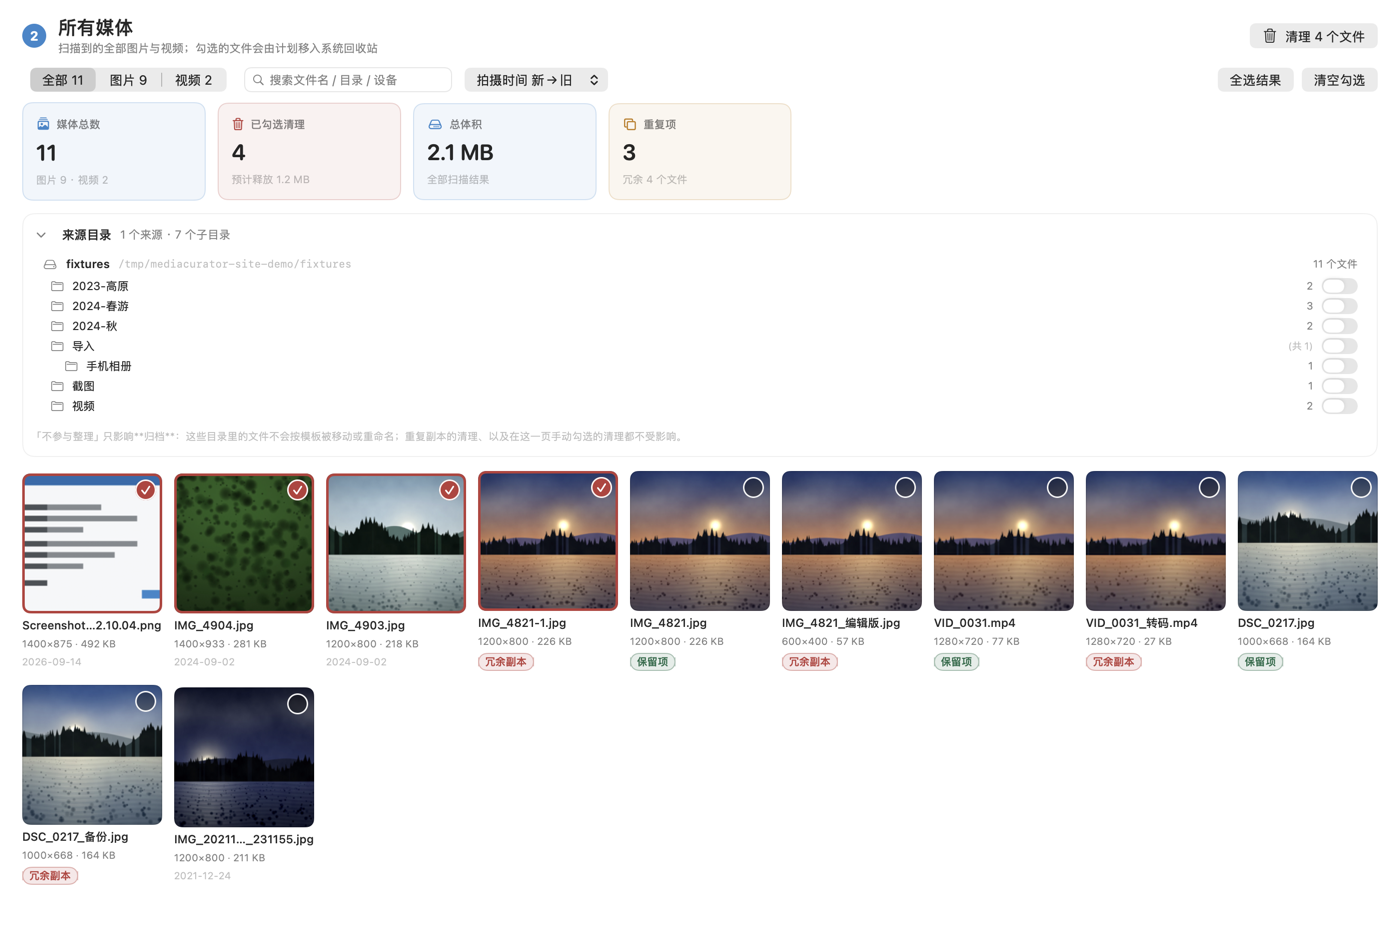
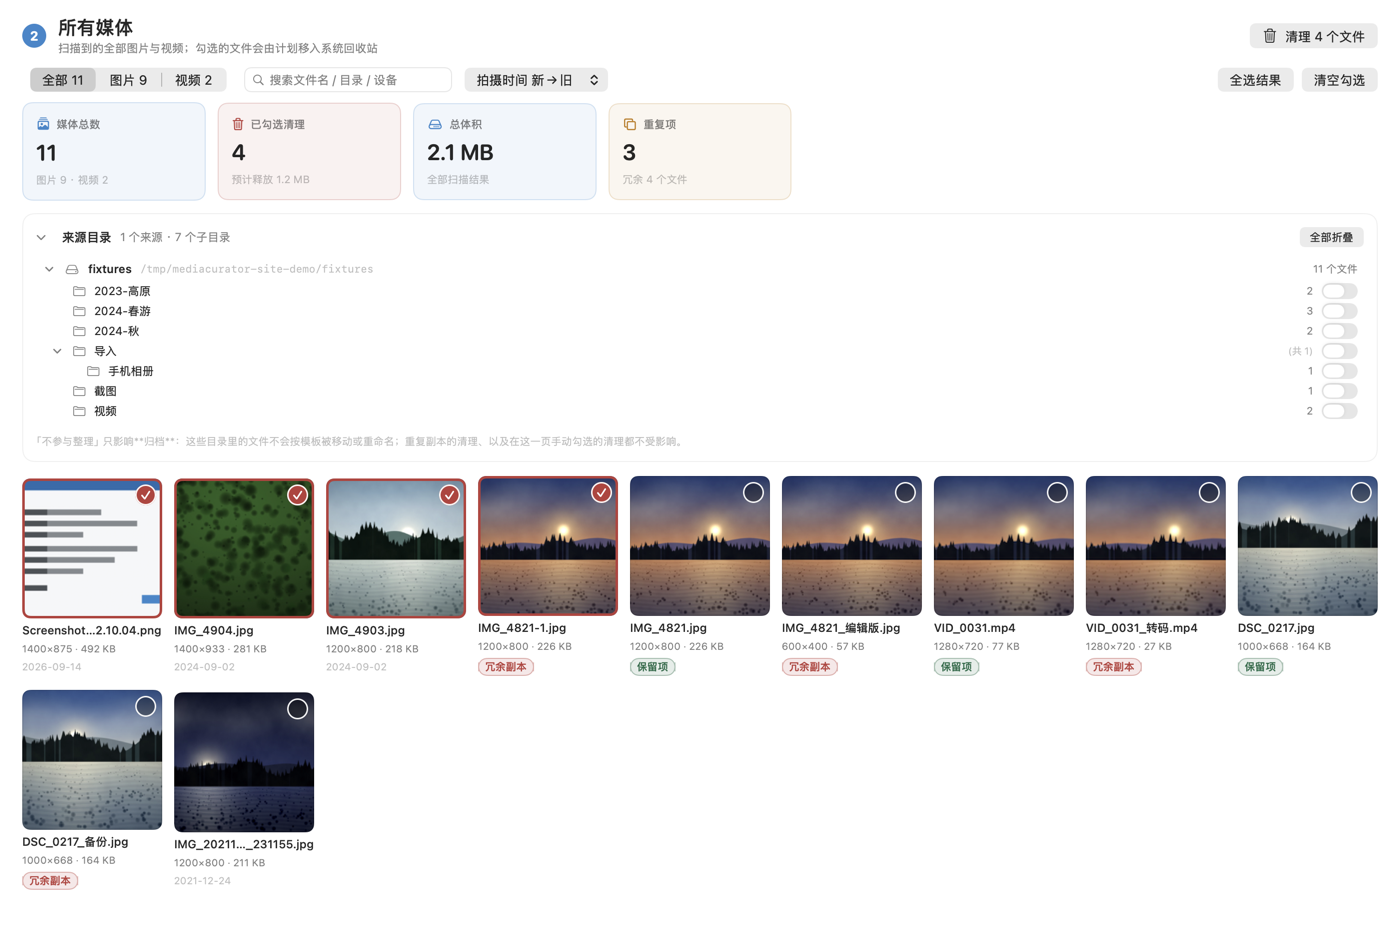
来源目录树支持折叠
- 每个目录行加折叠箭头，可逐个收起/展开；标题栏加「全部折叠 / 全部展开」。
- 叶子目录也画等宽透明占位，否则有下级和没下级的行会左右错开一格，
  看起来像缩进算错了 —— 而缩进在这棵树里正是「层级」的表达。
- 收起某个目录时行尾显示「已收起 N 个子目录」：光看名字不知道里面还有多少。
- 折叠可见性算在数据层 `SourceFolderGroup.visibleFolders(collapsed:)`，自检直接断言
  「收起后后代全部消失、展开原样回来、不影响兄弟目录、收起根只剩一行」——
  这类性质看截图验不出来（少几行和多几行在缩略图尺寸下很难分辨）。
- 顺手修掉一个既有缺陷：面板头部原先是一个大 Button 里嵌着「全部恢复」按钮，
  嵌套按钮的点击会串到外层（点「全部恢复」可能连带把整块折起来）。
  改成左侧标题区一个按钮、右侧动作各自独立。
- 色相桶数在 uicheck 里改为**只打印不断言**：自检素材是多频正弦图案，网格页与
  控件页都在 3–4 桶之间，比不出稳定差异 —— 加折叠箭头后 4 vs 3 直接翻转，
  拿噪声当判据比没有更糟。强判据留在出图环节（照片素材实测 10/12 桶）。

Changed region(s): [[0.0, 0.2422, 0.9829, 0.9686], [0.9214, 0.2422, 0.9829, 0.4541]]

diff --git a/Sources/MediaCurator/Views/AllMediaView.swift b/Sources/MediaCurator/Views/AllMediaView.swift
@@ -15,6 +15,11 @@ struct AllMediaView: View {
     /// 来源目录树默认展开：这是「这一页能看到哪些目录、哪些目录不参与整理」的唯一入口，
     /// 折叠着的话用户根本不知道有这回事。嫌占地方再收起来。
     @State private var showFolderTree = true
+    /// 被收起子目录的路径。
+    ///
+    /// 存路径而不是下标或 id：重新扫描后目录树会重建，只有路径在两次之间是稳定的。
+    /// 这也是临时浏览状态，不持久化 —— 下次打开全部展开，比记住一堆收起状态更符合预期。
+    @State private var collapsedFolders: Set<String> = []
 
     var body: some View {
         // 筛选结果、重复角色、目录树各算一次就够。它们都是 O(文件数) 甚至 O(n log n)
@@ -255,41 +260,69 @@ struct AllMediaView: View {
     private func sourceFolderPanel(_ groups: [SourceFolderGroup]) -> some View {
         let subfolderCount = groups.reduce(0) { $0 + max(0, $1.folders.count - 1) }
         let excludedCount = state.excludedFromOrganizing.count
+        // 折叠只对「有下级的目录」有意义；一个都没有时那两个按钮不该出现
+        let parentsWithChildren = groups.reduce(into: Set<String>()) {
+            $0.formUnion($1.foldersWithChildren)
+        }
+        let allCollapsed = !parentsWithChildren.isEmpty
+            && collapsedFolders.isSuperset(of: parentsWithChildren)
 
         if !groups.isEmpty {
             VStack(alignment: .leading, spacing: 0) {
-                Button {
-                    withAnimation(.easeInOut(duration: 0.14)) { showFolderTree.toggle() }
-                } label: {
-                    HStack(spacing: 8) {
-                        Image(systemName: showFolderTree ? "chevron.down" : "chevron.right")
-                            .font(.system(size: 10, weight: .semibold))
-                            .foregroundStyle(.secondary)
-                            .frame(width: 10)
-                        Image(systemName: "folder.on.circle")
-                            .font(.system(size: 12, weight: .semibold))
-                            .foregroundStyle(Palette.accent)
-                        Text("来源目录")
-                            .font(.system(size: 12.5, weight: .semibold))
-                        Text("\(groups.count) 个来源 · \(subfolderCount) 个子目录")
-                            .font(.system(size: 11.5))
-                            .foregroundStyle(.secondary)
-                        Spacer(minLength: 8)
-                        if excludedCount > 0 {
-                            TagChip(text: "已排除 \(excludedCount) 个不参与整理",
-                                    tint: Palette.caution, filled: false)
-                                .fixedSize()
-                            Button("全部恢复") {
-                                state.excludedFromOrganizing.removeAll()
-                                state.persistPreferences()
-                            }
-                            .controlSize(.small)
-                            .help("清除所有「不参与整理」的勾选，全部目录重新参与归档")
+                // 头部刻意**不是**一个大 Button 里嵌几个小按钮 —— 那样嵌套的按钮
+                // 点击会串到外层（点「全部恢复」可能连带把整块折起来）。
+                // 这里拆成：左侧标题区一个按钮，右侧动作各自独立。
+                HStack(spacing: 8) {
+                    Button {
+                        withAnimation(.easeInOut(duration: 0.14)) { showFolderTree.toggle() }
+                    } label: {
+                        HStack(spacing: 8) {
+                            Image(systemName: showFolderTree ? "chevron.down" : "chevron.right")
+                                .font(.system(size: 10, weight: .semibold))
+                                .foregroundStyle(.secondary)
+                                .frame(width: 10)
+                            Image(systemName: "folder.on.circle")
+                                .font(.system(size: 12, weight: .semibold))
+                                .foregroundStyle(Palette.accent)
+                            Text("来源目录")
+                                .font(.system(size: 12.5, weight: .semibold))
+                            Text("\(groups.count) 个来源 · \(subfolderCount) 个子目录")
+                                .font(.system(size: 11.5))
+                                .foregroundStyle(.secondary)
                         }
+                        .contentShape(Rectangle())
                     }
-                    .contentShape(Rectangle())
+                    .buttonStyle(.plain)
+                    .help(showFolderTree ? "收起目录树" : "展开目录树")
+
+                    Spacer(minLength: 8)
+
+                    if showFolderTree && !parentsWithChildren.isEmpty {
+                        Button(allCollapsed ? "全部展开" : "全部折叠") {
+                            withAnimation(.easeInOut(duration: 0.12)) {
+                                if allCollapsed {
+                                    collapsedFolders.subtract(parentsWithChildren)
+                                } else {
+                                    collapsedFolders.formUnion(parentsWithChildren)
+                                }
+                            }
+                        }
+                        .controlSize(.small)
+                        .help(allCollapsed ? "展开所有子目录" : "只留下每个目录的第一层")
+                    }
+
+                    if excludedCount > 0 {
+                        TagChip(text: "已排除 \(excludedCount) 个不参与整理",
+                                tint: Palette.caution, filled: false)
+                            .fixedSize()
+                        Button("全部恢复") {
+                            state.excludedFromOrganizing.removeAll()
+                            state.persistPreferences()
+                        }
+                        .controlSize(.small)
+                        .help("清除所有「不参与整理」的勾选，全部目录重新参与归档")
+                    }
                 }
-                .buttonStyle(.plain)
 
                 if showFolderTree {
                     VStack(alignment: .leading, spacing: 0) {
@@ -317,8 +350,17 @@ struct AllMediaView: View {
 
     @ViewBuilder
     private func folderGroupRows(_ group: SourceFolderGroup) -> some View {
+        let withChildren = group.foldersWithChildren
+        let childCounts = group.directChildCounts
+        // 折叠后要显示的行由数据层的纯函数算（自检直接断言同一套逻辑）
+        let rows = group.visibleFolders(collapsed: collapsedFolders)
+        let rootCollapsed = collapsedFolders.contains(group.root)
+
         VStack(alignment: .leading, spacing: 0) {
             HStack(spacing: 8) {
+                collapseChevron(path: group.root,
+                                hasChildren: withChildren.contains(group.root),
+                                isCollapsed: rootCollapsed)
                 Image(systemName: "externaldrive")
                     .font(.system(size: 11))
                     .foregroundStyle(.secondary)
@@ -332,6 +374,11 @@ struct AllMediaView: View {
                     .truncationMode(.middle)
                     .help(group.root)
                 Spacer(minLength: 8)
+                if rootCollapsed, group.folders.count > 1 {
+                    Text("已收起 \(group.folders.count - 1) 个子目录")
+                        .font(.system(size: 10))
+                        .foregroundStyle(.tertiary)
+                }
                 Text("\(group.totalFileCount) 个文件")
                     .font(.system(size: 10.5, design: .rounded))
                     .foregroundStyle(.secondary)
@@ -339,19 +386,56 @@ struct AllMediaView: View {
             .padding(.horizontal, 6)
             .padding(.vertical, 5)
 
-            ForEach(group.folders.filter { $0.depth > 0 }) { folder in
-                folderRow(folder)
+            ForEach(rows.filter { $0.depth > 0 }) { folder in
+                folderRow(folder,
+                          hasChildren: withChildren.contains(folder.path),
+                          childCount: childCounts[folder.path] ?? 0)
             }
         }
         .padding(.bottom, 4)
     }
 
-    private func folderRow(_ folder: SourceSubfolder) -> some View {
+    /// 折叠箭头。
+    ///
+    /// 叶子目录也画一个**等宽的透明占位**：不占位的话，有下级和没下级的行会左右错开一格，
+    /// 看起来像缩进算错了，而缩进在这棵树里是有含义的（它表示层级）。
+    @ViewBuilder
+    private func collapseChevron(path: String, hasChildren: Bool, isCollapsed: Bool) -> some View {
+        if hasChildren {
+            Button {
+                withAnimation(.easeInOut(duration: 0.12)) { toggleCollapse(path) }
+            } label: {
+                Image(systemName: isCollapsed ? "chevron.right" : "chevron.down")
+                    .font(.system(size: 9, weight: .bold))
+                    .foregroundStyle(.secondary)
+                    .frame(width: 14, height: 14)
+                    .contentShape(Rectangle())
+            }
+            .buttonStyle(.plain)
+            .help(isCollapsed ? "展开子目录" : "收起子目录")
+        } else {
+            Color.clear.frame(width: 14, height: 14)
+        }
+    }
+
+    private func toggleCollapse(_ path: String) {
+        if collapsedFolders.contains(path) {
+            collapsedFolders.remove(path)
+        } else {
+            collapsedFolders.insert(path)
+        }
+    }
+
+    private func folderRow(_ folder: SourceSubfolder,
+                           hasChildren: Bool,
+                           childCount: Int) -> some View {
         // 「自己勾的」与「随上级被排除」是两种状态：前者能取消，后者要先去取消上级。
         // 界面上必须分开呈现，否则用户会对着一个点不动的开关反复点。
         let excluded = folder.isExcluded || folder.isInherited
+        let isCollapsed = collapsedFolders.contains(folder.path)
         return HStack(spacing: 8) {
             Spacer(minLength: 0).frame(width: CGFloat(max(0, folder.depth - 1)) * 14)
+            collapseChevron(path: folder.path, hasChildren: hasChildren, isCollapsed: isCollapsed)
             Image(systemName: excluded ? "folder.badge.minus" : "folder")
                 .font(.system(size: 11))
                 .foregroundStyle(folder.isExcluded ? Palette.caution : .secondary)
@@ -362,6 +446,12 @@ struct AllMediaView: View {
                 .truncationMode(.middle)
                 .foregroundStyle(excluded ? .secondary : .primary)
                 .help(folder.path)
+            if isCollapsed, childCount > 0 {
+                // 收起之后光看名字不知道里面有多少，给个数
+                Text("已收起 \(childCount) 个子目录")
+                    .font(.system(size: 10))
+                    .foregroundStyle(.tertiary)
+            }
             Spacer(minLength: 8)
 
             if folder.fileCount > 0 {

diff --git a/Sources/MediaCurator/SelfTest/UIRenderCheck.swift b/Sources/MediaCurator/SelfTest/UIRenderCheck.swift
@@ -165,17 +165,17 @@ enum UIRenderCheck {
         checker.check(digests.count == results.count,
                       "\(AppPage.allCases.count) 个页面渲染结果互不相同（\(digests.count)/\(results.count)）")
 
-        // 缩略图网格页要专门验一条：**图是不是真的画上去了**。
-        // 「有墨迹」这条判据对空占位符同样成立 —— 一片灰色转圈框也有墨迹，
-        // 页面指纹也各不相同，人不去看图根本发现不了整片缩略图没出来。
-        // 用色相分布做判据：照片是彩色的，纯控件页（扫描页基本是灰白）则不然。
+        // 色相桶数在这里只打印、**不做断言**。
+        //
+        // 自检素材是多频正弦图案，本身颜色就单调，网格页与纯控件页的桶数都落在 3–4 之间，
+        // 比不出稳定差异 —— 拿噪声当判据只会让自检红绿随机，比没有更糟
+        // （第一版就是这么翻的：加了折叠箭头之后 4 vs 3 直接翻转）。
+        //
+        // 真正的把关在出图环节：那边用的是照片素材，实测网格页 10/12 桶、控件页 1–4 桶，
+        // 阈值定在 6 桶，差距足够大，判据才立得住。
         if let grid = results.first(where: { $0.name == AppPage.allMedia.title }),
            let form = results.first(where: { $0.name == AppPage.scan.title }) {
-            print("  · 色相桶数：所有媒体 \(grid.hueBucketCount)/12 ｜ 扫描 \(form.hueBucketCount)/12")
-            checker.check(grid.hueBucketCount > form.hueBucketCount,
-                          "「所有媒体」页的色相比纯控件页更丰富（缩略图确已解码并画出）")
-        } else {
-            checker.check(false, "没有拿到用于对比色相的页面渲染结果")
+            print("  · 色相桶数（仅诊断）：所有媒体 \(grid.hueBucketCount)/12 ｜ 扫描 \(form.hueBucketCount)/12")
         }
 
         // ---------- 「所有媒体」页：筛选、排序与勾选 ----------
@@ -314,6 +314,41 @@ enum UIRenderCheck {
                           "勾选上级时清理掉下级的单独勾选")
             state.toggleOrganizingExclusion(probeRoot + "/2023")
             checker.check(state.excludedFromOrganizing.isEmpty, "再点一次即取消排除")
+
+            // 折叠：收起一个目录后它的后代全部消失，展开又原样回来。
+            // 这条性质**靠看截图验不出来** —— 少几行和多几行在缩略图尺寸下很难分辨，
+            // 所以折叠可见性算在数据层（`SourceFolderGroup.visibleFolders`），由自检直接断言。
+            let allRows = node.visibleFolders(collapsed: [])
+            checker.equal(allRows.count, node.folders.count, "不折叠时显示全部目录行")
+
+            let midPath = probeRoot + "/2023"
+            let sibling = probeRoot + "/备份"
+            let midFolded = node.visibleFolders(collapsed: [midPath])
+            checker.equal(midFolded.count, allRows.count - 1, "收起 2023 后正好少一行（2023-05）")
+            checker.check(midFolded.contains { $0.path == midPath }, "被收起的目录本身仍然显示")
+            checker.check(!midFolded.contains { $0.path.hasPrefix(midPath + "/") },
+                          "收起后它的子目录不再出现")
+            checker.check(midFolded.contains { $0.path == sibling },
+                          "收起一个目录不影响它的兄弟目录")
+
+            let rootFolded = node.visibleFolders(collapsed: [probeRoot])
+            checker.equal(rootFolded.count, 1, "收起来源根后只剩根一行")
+            checker.equal(rootFolded.first?.path, probeRoot, "剩下的那行正是来源根")
+
+            let twoFolded = node.visibleFolders(collapsed: [midPath, sibling])
+            checker.equal(twoFolded.count, 3,
+                          "同时收起两个目录：根 / 2023 / 备份 三行，2023-05 被隐藏")
+
+            checker.equal(node.visibleFolders(collapsed: []).count, allRows.count,
+                          "折叠集合清空后又回到全部显示")
+
+            // 有下级的判断必须准确：叶子目录上画折叠箭头，点下去毫无反应
+            checker.check(node.foldersWithChildren.contains(probeRoot), "来源根被认为有下级")
+            checker.check(node.foldersWithChildren.contains(midPath), "2023 被认为有下级")
+            checker.check(!node.foldersWithChildren.contains(sibling), "备份是叶子，不应有折叠箭头")
+            checker.equal(node.directChildCounts[probeRoot], 2, "来源根的直接下级是 2 个")
+            checker.equal(node.directChildCounts[midPath], 1, "2023 的直接下级是 1 个")
+            checker.equal(node.directChildCounts[sibling], nil, "叶子目录没有下级计数")
         }
         state.excludedFromOrganizing = []
         state.items = savedItemsForTree

diff --git a/Sources/MediaCurator/AppState.swift b/Sources/MediaCurator/AppState.swift
@@ -142,6 +142,51 @@ struct SourceFolderGroup: Identifiable {
     var totalBytes: Int64
 
     var excludedCount: Int { folders.filter { $0.isExcluded }.count }
+
+    /// 有下级的目录 —— 折叠箭头只在有下级时才画。
+    /// 给叶子目录也画一个，点下去毫无反应，用户会当成坏了。
+    var foldersWithChildren: Set<String> {
+        var result: Set<String> = []
+        for index in folders.indices where index + 1 < folders.count {
+            // 先序序列里，紧邻的下一行层级更深，就说明当前这一行有子节点
+            if folders[index + 1].depth > folders[index].depth {
+                result.insert(folders[index].path)
+            }
+        }
+        return result
+    }
+
+    /// 每个目录的**直接**下级数量（不含更深的后代）—— 折叠起来时要显示「里面有几个」
+    var directChildCounts: [String: Int] {
+        var counts: [String: Int] = [:]
+        for folder in folders where folder.depth > 0 {
+            let parent = PathTools.normalized((folder.path as NSString).deletingLastPathComponent)
+            counts[parent, default: 0] += 1
+        }
+        return counts
+    }
+
+    /// 按折叠状态算出实际要显示的行。
+    ///
+    /// 抽成数据层的纯函数而不是写在视图里，是为了**能被自检直接断言** ——
+    /// 「收起一个目录后它的后代全部消失、再展开又原样回来」这种性质，
+    /// 靠看截图是验不出来的（少几行和多几行在缩略图上很难分辨）。
+    ///
+    /// 依赖「字典序即先序」这个前提：子树在数组里一定是连续的一段，
+    /// 所以只要记住当前折叠到哪一层，跳过层级更深的行即可，一次遍历完成。
+    func visibleFolders(collapsed: Set<String>) -> [SourceSubfolder] {
+        var result: [SourceSubfolder] = []
+        var collapsedDepth: Int?
+        for folder in folders {
+            if let depth = collapsedDepth {
+                if folder.depth > depth { continue }   // 仍在收起的子树里
+                collapsedDepth = nil                   // 回到了同层或更外层
+            }
+            result.append(folder)
+            if collapsed.contains(folder.path) { collapsedDepth = folder.depth }
+        }
+        return result
+    }
 }
 
 struct SourceSubfolder: Identifiable {

diff --git a/docs/index.html b/docs/index.html
@@ -126,7 +126,8 @@
             <p>上方列出<strong>每个来源目录及其子目录</strong>（含文件数），可以逐个勾选
                <strong>「不参与整理」</strong>：这些目录里的文件不会被按模板移动或重命名。
                适合结构已经是你想要的样子、或者想留作原样备份的目录。
-               勾选上级目录时，下级会显示为「随上级」并自动生效。</p>
+               目录多的时候可以逐个收起，也可以一键全部折叠；勾选上级目录时，
+               下级会显示为「随上级」并自动生效。</p>
           </div>
           <figure class="shot">
             <img src="images/all-media-selected.png" width="1400" height="925" alt="所有媒体页：上方是来源目录与子目录列表，下方网格里每个缩略图右上角有勾选圈，已勾选的显示红色描边与对勾。" loading="lazy">

diff --git a/README.md b/README.md
@@ -90,6 +90,9 @@ UNIVERSAL=1 ./Scripts/package_release.sh   # → dist/影像管家-v1.0.0-univer
 界面上的细节：勾选上级目录时，下级显示为「随上级」并且开关不可点 ——
 用户若分不清「自己勾的」和「继承来的」，会对着一个点不动的开关反复点。
 勾选上级会顺手清掉下级已有的单独勾选，否则取消上级时会冒出一堆意外生效的排除。
+目录树可以逐个收起，标题栏也有「全部折叠」；折叠可见性由
+`SourceFolderGroup.visibleFolders(collapsed:)` 这个纯函数算，所以自检能直接断言
+「收起一个目录后它的后代全部消失、再展开原样回来」—— 这种性质看截图是验不出来的。
 
 生成计划时，若勾选覆盖了某个重复组的全部成员、或勾中了组内的保留项，计划页会单独点名 ——
 这条路径绕开了重复项的推荐逻辑，是唯一能把原件清掉而程序不拦的地方。
